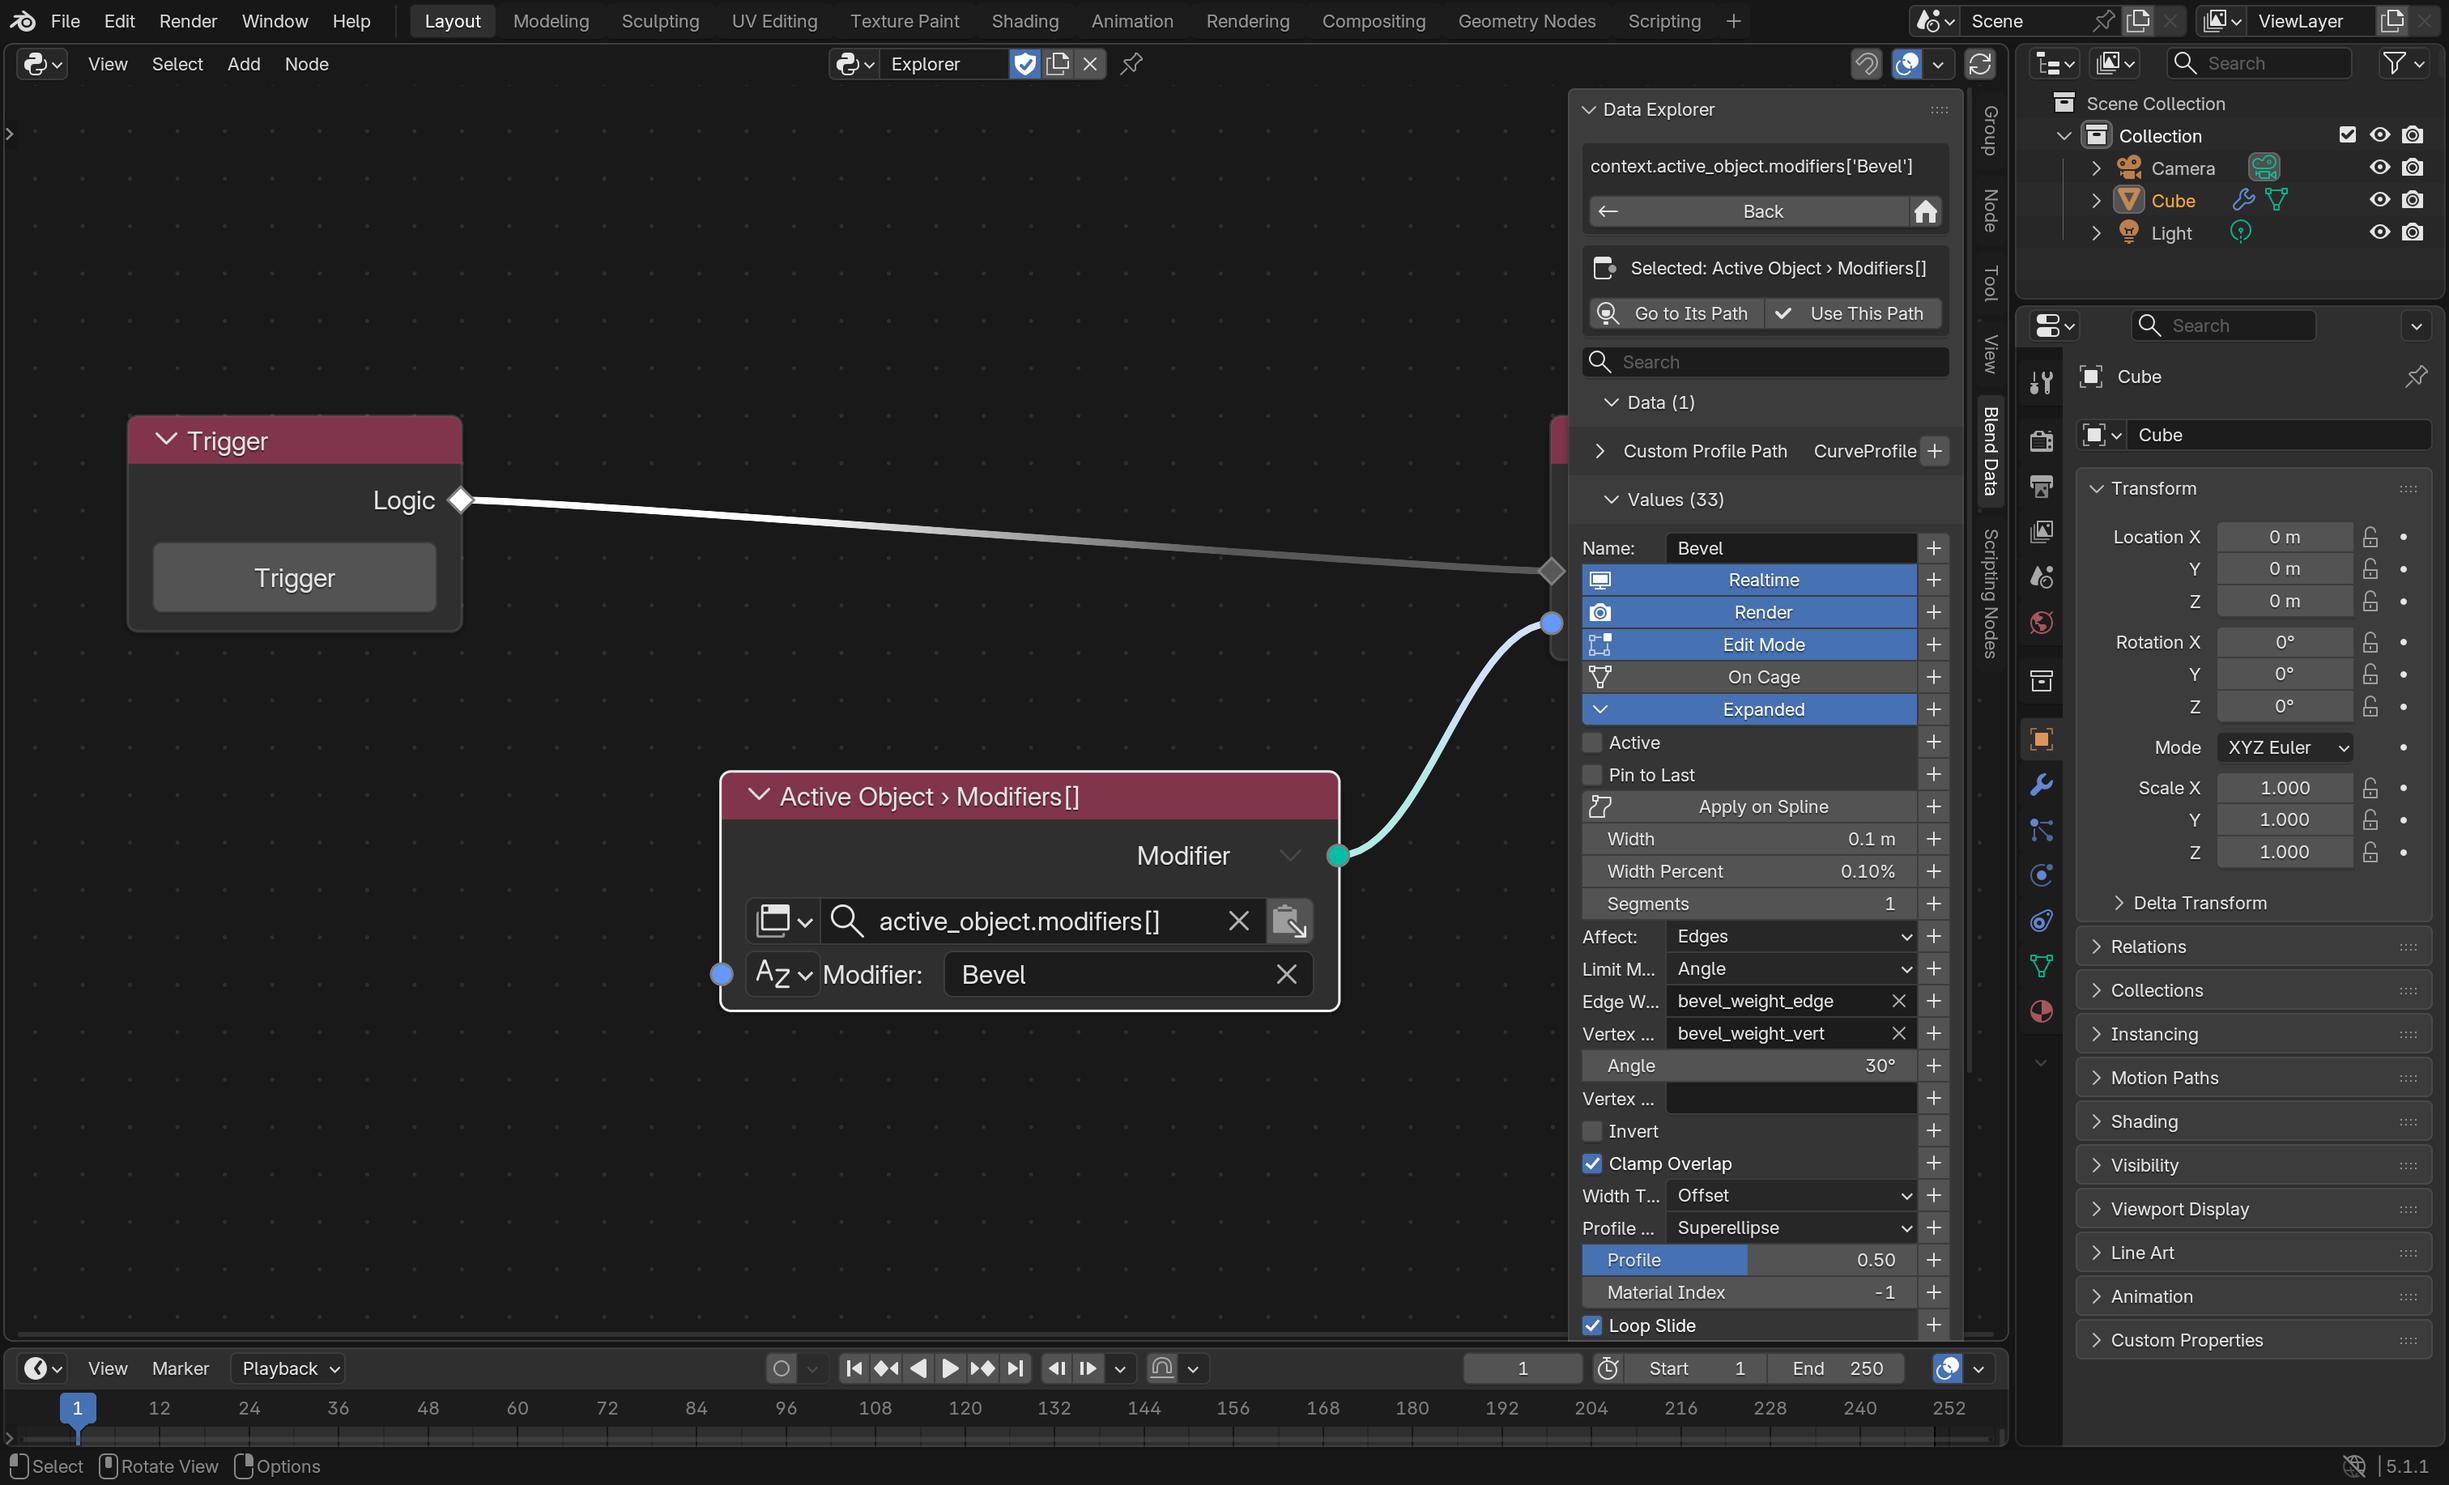
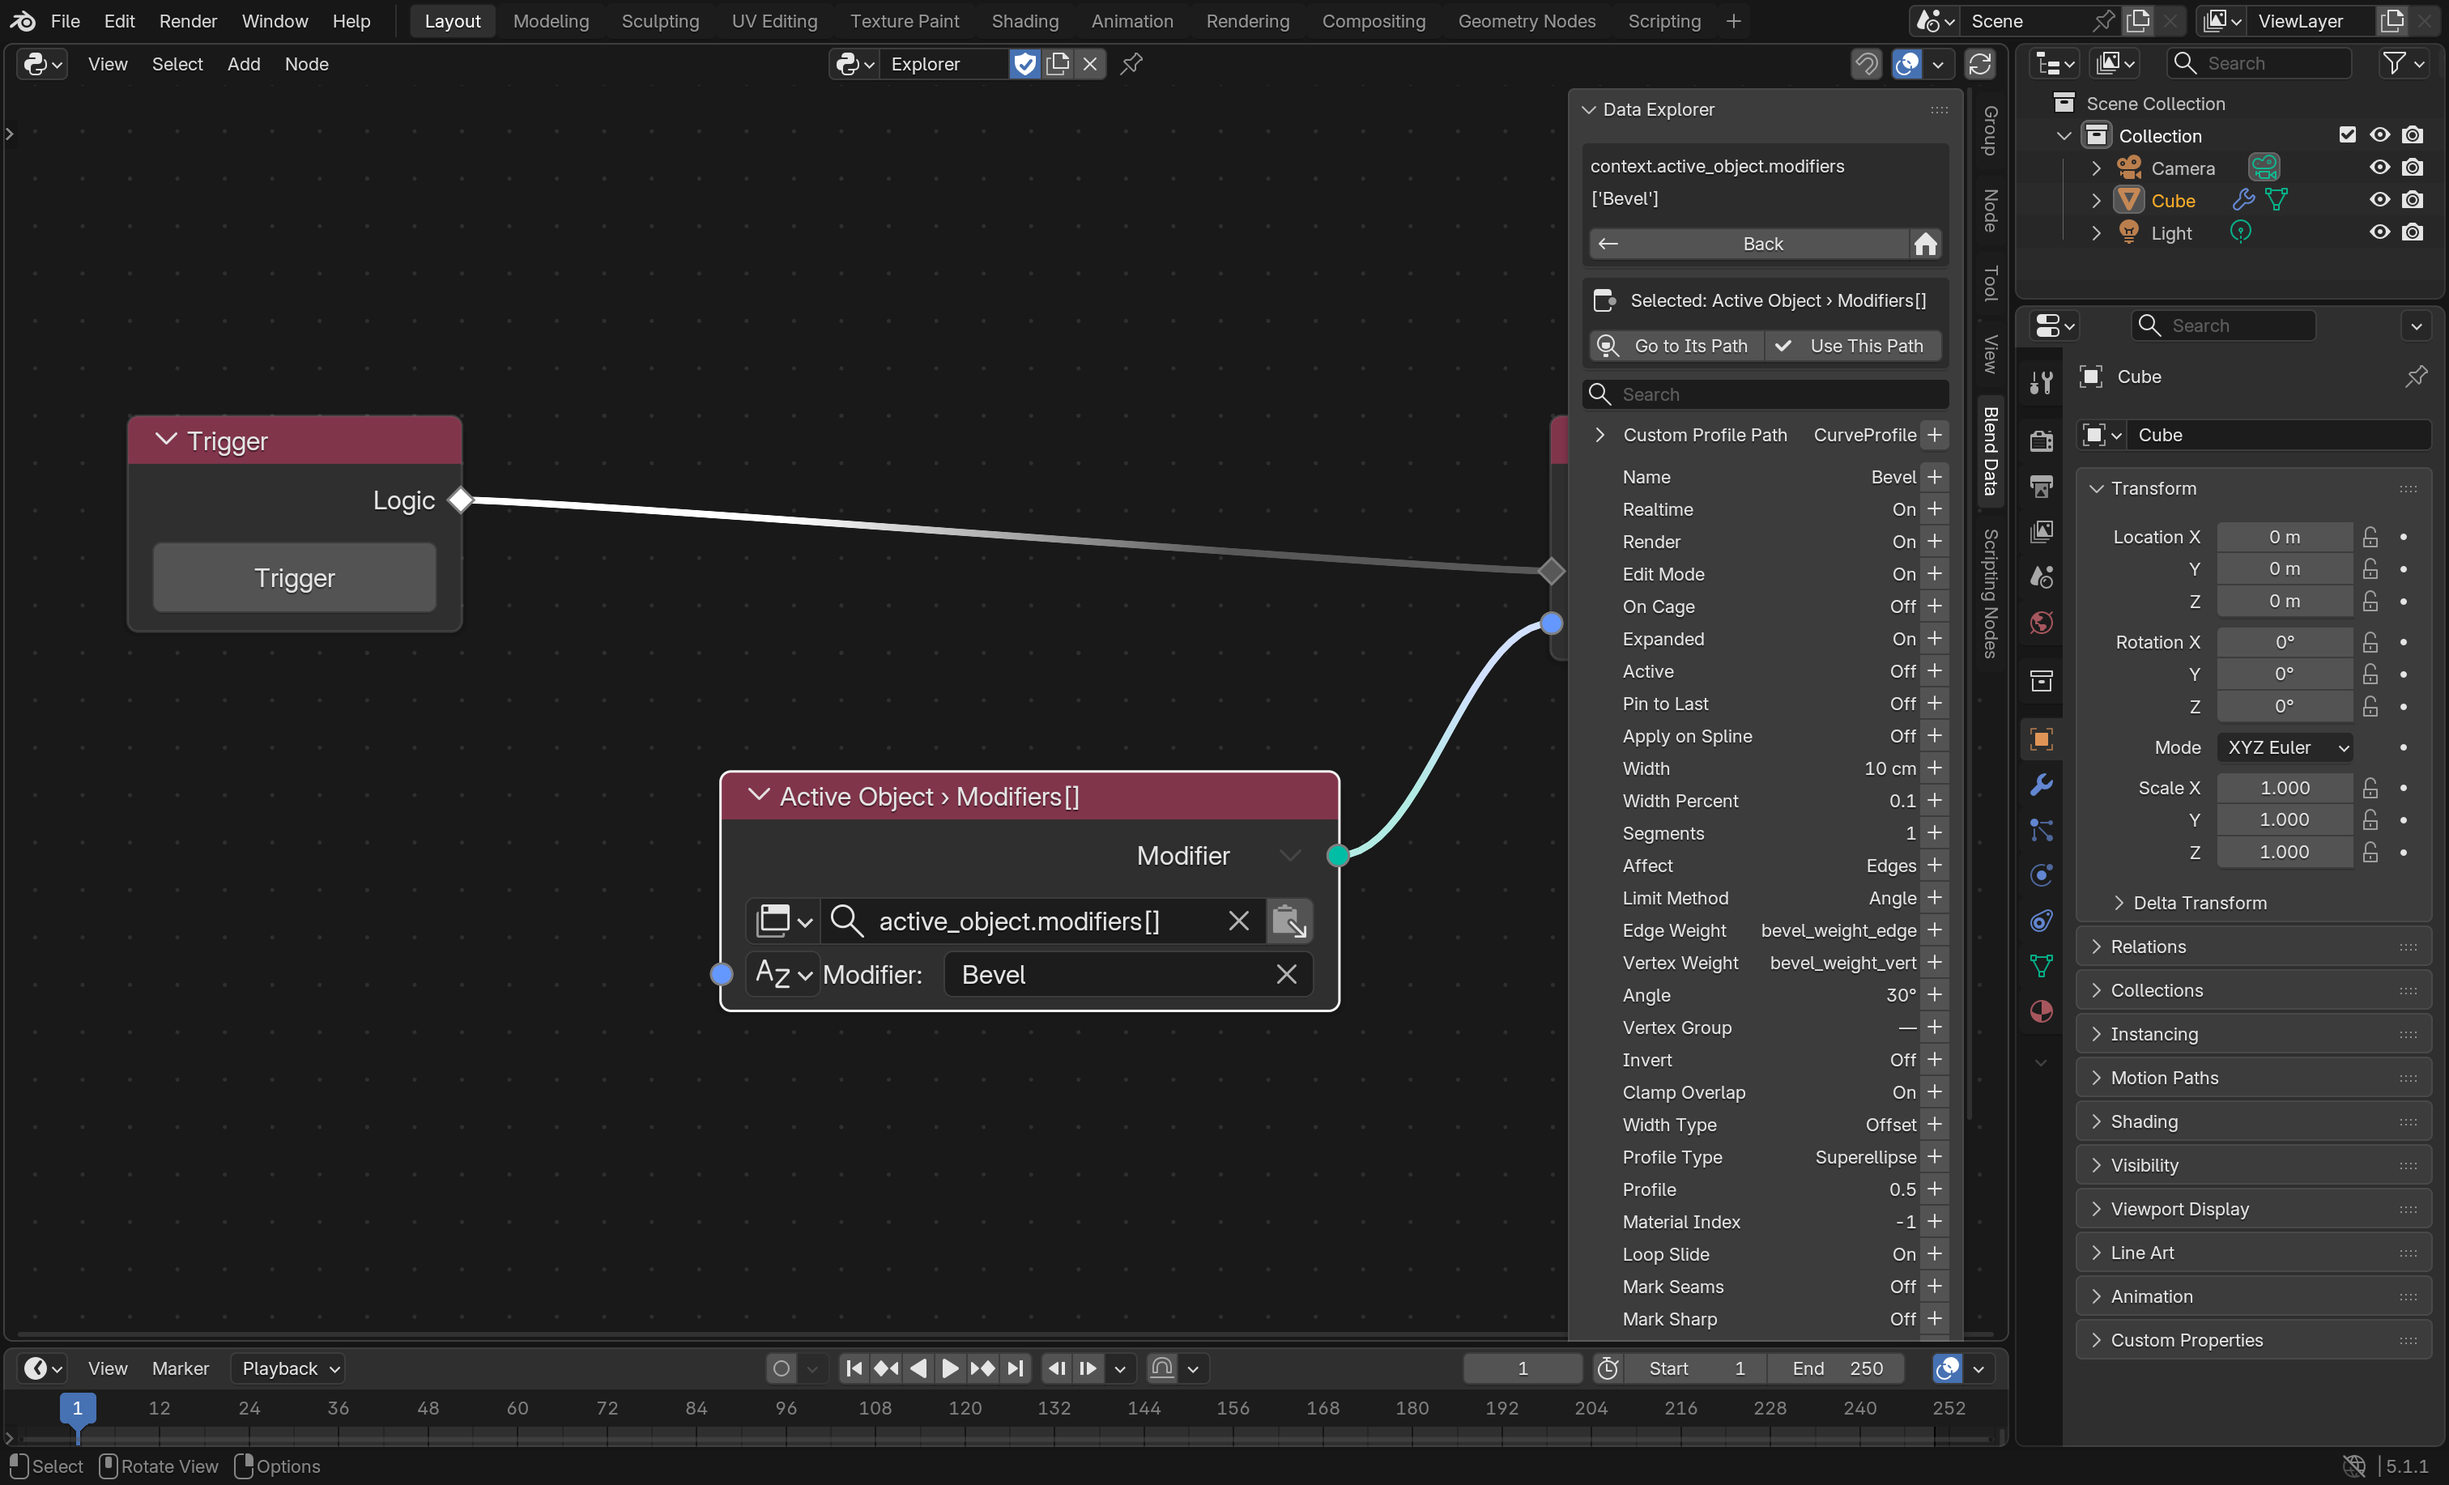
Explorer: the same row for every entry, values as text
Values show what they are (`10 cm`, `30°`, `Edges`, `On`) instead of
Blender's widgets, so every row reads name / value / +. One list without
section headers; the path wraps instead of being cut off.

Changed region(s): [[0.6217, 0.1243, 0.8082, 0.9013], [0.746, 0.8391, 0.8082, 0.8702]]

diff --git a/addon/scripting_nodes/src/blend_data/ui/explorer_panel.py b/addon/scripting_nodes/src/blend_data/ui/explorer_panel.py
@@ -5,6 +5,9 @@ It's a browser: clicking only moves the explorer. Nodes change through +
 (add a node) and the buttons for the selected node under the path.
 """
 
+import math
+import re
+
 import bpy
 
 from ...node_tree.editor import in_sn_tree
@@ -13,7 +16,7 @@ from ..ops.explorer import location as explorer_location
 from ..ops.explorer import selected_node
 
 MAX_ITEMS = 50
-# vectors up to this length are drawn as fields, longer arrays as a label
+# arrays up to this length show their values, longer ones their size
 MAX_ARRAY = 4
 
 
@@ -32,7 +35,7 @@ class SNA_PT_DataExplorer(bpy.types.Panel):
         layout = self.layout
         ui = context.scene.sna.ui
         location = explorer_location(context)
-        _draw_header(layout, location)
+        _draw_header(layout, context, location)
         _draw_selected_node(layout, context, location)
         if not location.root:
             _draw_roots(layout)
@@ -41,11 +44,14 @@ class SNA_PT_DataExplorer(bpy.types.Panel):
             _draw_location(layout, context, location)
 
 
-def _draw_header(layout, location):
-    """Where the explorer is: the path as code, back and home."""
+def _draw_header(layout, context, location):
+    """Where the explorer is: the path as code (wrapped, not cut off), back
+    and home."""
     box = layout.box()
     path = location.python().replace("bpy.context", "context")
-    box.label(text=path or "Context or Blend File")
+    col = box.column(align=True)
+    for line in _wrap(path, _chars_per_line(context)) or ["Context or Blend File"]:
+        col.label(text=line)
     row = box.row(align=True)
     row.enabled = bool(location.root)
     back = row.operator("sna.explorer_back", text="Back", icon="BACK")
@@ -114,30 +120,21 @@ def _draw_members(layout, context, value, search, show_all, highlight):
                 continue
             values.append((identifier, text, prop, current))
 
-    if data:
-        header, body = layout.panel("sna_explorer_data")
-        header.label(text=f"Data ({len(data)})")
-        if body is not None:
-            col = body.column(align=True)
-            for identifier, text, current in data:
-                row = _row(col, identifier == highlight)
-                row.active = current is not None
-                _target(_entry(row, text, _summary(current)), identifier)
-                _add(row, identifier)
-    if values:
-        header, body = layout.panel("sna_explorer_values")
-        header.label(text=f"Values ({len(values)})")
-        if body is not None:
-            col = body.column(align=True)
-            for identifier, text, prop, current in values:
-                row = _row(col, identifier == highlight)
-                if prop is None:
-                    row.label(text=f"{text}: {current!s}")
-                elif _array_size(prop) > MAX_ARRAY:
-                    row.label(text=f"{text} ({_array_size(prop)} values)")
-                else:
-                    row.prop(value, identifier, text=text)
-                _add(row, identifier)
+    col = layout.column(align=True)
+    for identifier, text, current in data:
+        row = _row(col, identifier == highlight)
+        row.active = current is not None
+        summary = _summary(current)
+        if summary.replace(" ", "").lower() == text.replace(" ", "").lower():
+            summary = ""  # "Field Settings: Field Settings"
+        _target(_entry(row, text, summary), identifier)
+        _add(row, identifier)
+    if data and values:
+        col.separator()
+    for identifier, text, prop, current in values:
+        row = _row(col, identifier == highlight)
+        _value_entry(row, text, _value_text(prop, current))
+        _add(row, identifier)
     if not data and not values:
         layout.label(text="Nothing found" if search else "Nothing to show")
     if hidden or show_all:
@@ -216,6 +213,75 @@ def _entry(row, text, summary="", opens=True, icon=None):
     right.alignment = "RIGHT"
     right.label(text=summary)
     return op
+
+
+def _value_entry(row, text, value):
+    """A value: its name on the left, the value as text on the right."""
+    left = row.row(align=True)
+    left.alignment = "LEFT"
+    left.label(text=text, icon="BLANK1")
+    right = row.row(align=True)
+    right.alignment = "RIGHT"
+    right.label(text=value or "—")
+
+
+def _value_text(prop, value) -> str:
+    """A value as short text: `0.1 m`, `30°`, `Edges`, `On`, `(0, 0, 1)`."""
+    if prop is None:
+        return str(value)
+    if prop.type == "ENUM":
+        if prop.is_enum_flag:
+            return ", ".join(_enum_name(prop, v) for v in sorted(value)) or "None"
+        return _enum_name(prop, value)
+    if prop.type == "STRING":
+        return value if len(value) <= 40 else value[:39] + "…"
+    if _array_size(prop):
+        if _array_size(prop) > MAX_ARRAY:
+            return f"{_array_size(prop)} values"
+        return "(" + ", ".join(_number(prop, v) for v in value) + ")"
+    return _number(prop, value)
+
+
+def _number(prop, value) -> str:
+    if isinstance(value, bool):
+        return "On" if value else "Off"
+    if isinstance(value, float):
+        if prop.unit == "ROTATION":
+            return f"{math.degrees(value):.4g}°"
+        if prop.unit not in {"NONE", ""}:
+            try:
+                return bpy.utils.units.to_string(
+                    bpy.context.scene.unit_settings.system,
+                    prop.unit,
+                    value,
+                    precision=3,
+                )
+            except (ValueError, TypeError):
+                pass
+        return f"{value:.4g}"
+    return str(value)
+
+
+def _enum_name(prop, identifier) -> str:
+    item = prop.enum_items.get(identifier)
+    return item.name if item is not None else str(identifier)
+
+
+def _wrap(text, width) -> list[str]:
+    """`text` in lines of about `width` characters, broken before `.` and `[`."""
+    lines, line = [], ""
+    for token in re.findall(r"[.\[]?[^.\[]+", text):
+        if line and len(line) + len(token) > width:
+            lines.append(line)
+            line = token
+        else:
+            line += token
+    return lines + [line] if line else lines
+
+
+def _chars_per_line(context) -> int:
+    scale = context.preferences.system.ui_scale
+    return max(16, int(context.region.width / scale / 7.5) - 4)
 
 
 def _add(row, member):
